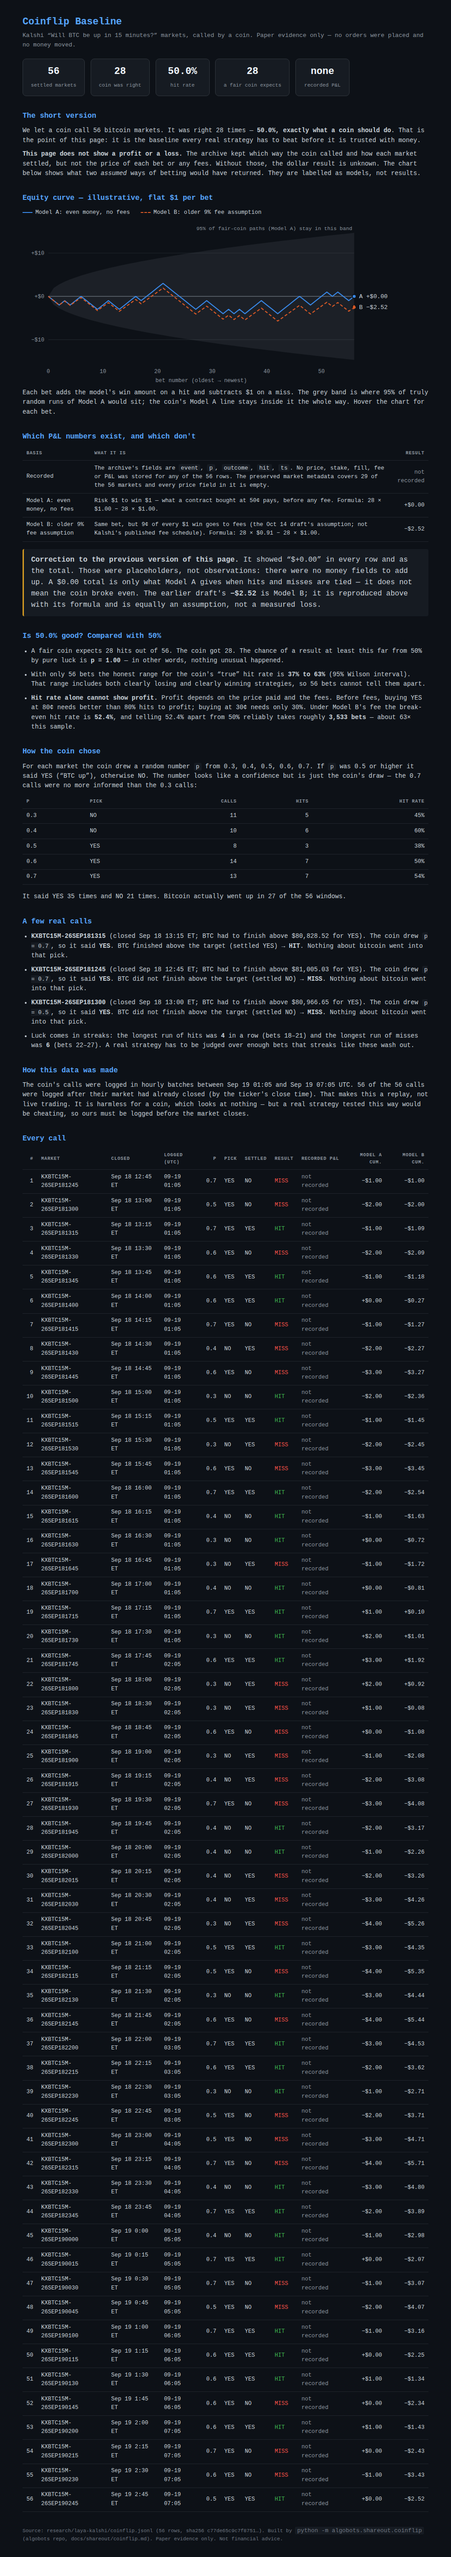
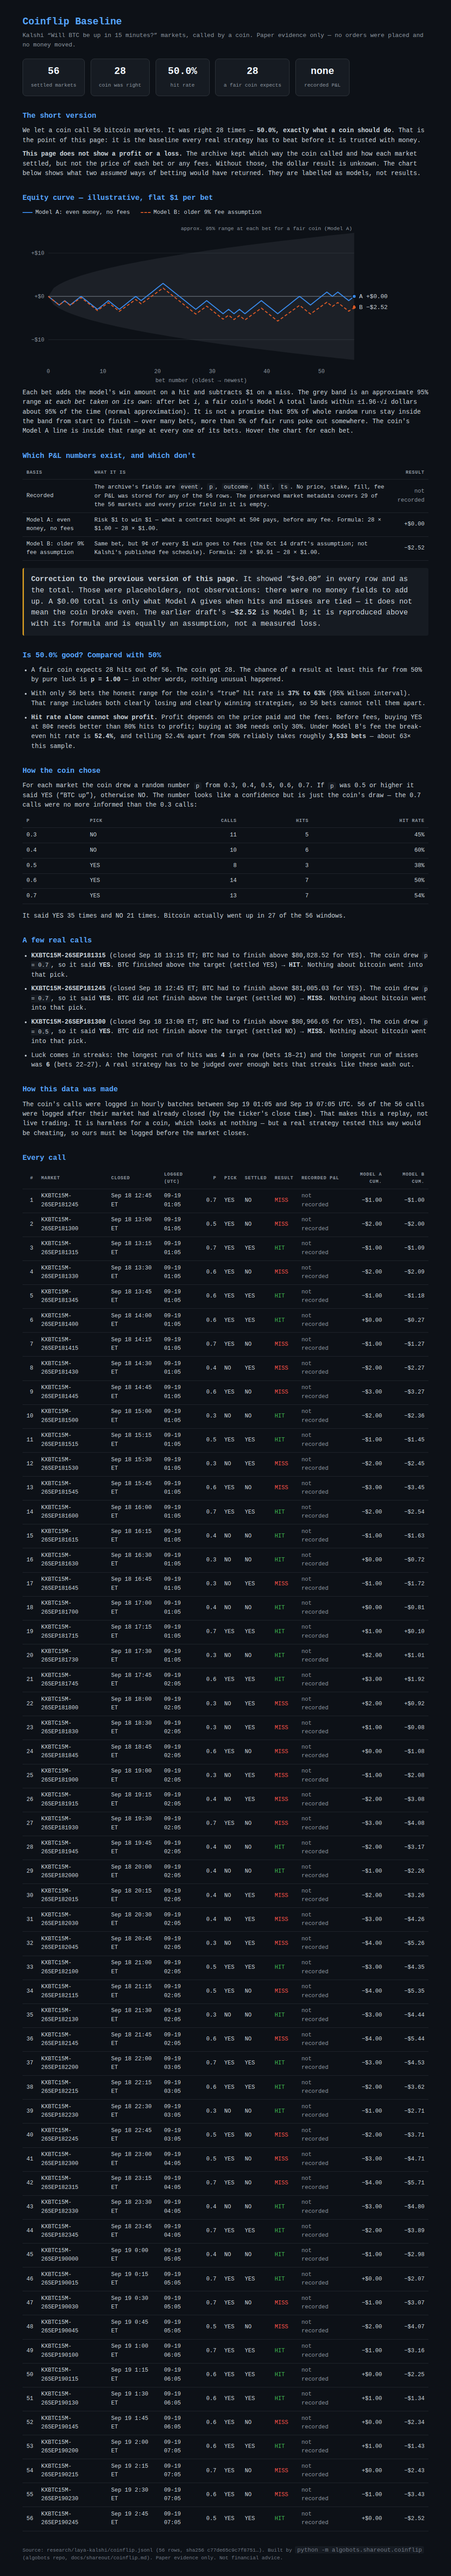
fix(ALG-3381): call the fair-coin band approximate and pointwise, not a path guarantee
CEO review: ±1.96·√i holds about 95% at each bet taken on its own (normal
approximation). It does not mean 95% of whole fair-coin paths stay inside
throughout. The SVG label, the caption and the docs now say so, and a test
locks the wording in. Served coinflip.html is now 027f607a…5208; index.html is
unchanged at ca372a0e…335db. Browser evidence has been re-captured.

diff --git a/src/algobots/shareout/coinflip.py b/src/algobots/shareout/coinflip.py
@@ -208,7 +208,7 @@ def money(x: float) -> str:
 
 
 def equity_svg(rows: list[Row]) -> str:
-    """Two illustrative equity lines with a fair-coin 95% band for Model A."""
+    """Two illustrative equity lines with an approximate pointwise 95% fair-coin band for Model A."""
     curves = {m.key: [0.0] + equity(rows, m) for m in MODELS}
     n = len(rows)
     band = [1.96 * math.sqrt(i) for i in range(n + 1)]
@@ -259,7 +259,7 @@ def equity_svg(rows: list[Row]) -> str:
     out.append(f'<path class="band" d="M{x(0):.1f},{y(0):.1f} {upper} {lower} Z"/>')
     out.append(
         f'<text class="bandlbl" x="{x(n) - 4:.1f}" y="{y(band[-1]) - 6:.1f}" '
-        'text-anchor="end">95% of fair-coin paths (Model A) stay in this band</text>'
+        'text-anchor="end">approx. 95% range at each bet for a fair coin (Model A)</text>'
     )
     for m, cls in ((EVEN_MONEY, "s1"), (FEE_9PCT, "s2")):
         c = curves[m.key]
@@ -378,9 +378,9 @@ def render_report(rows: list[Row], markets: dict[str, dict], source_sha: str) ->
     e = html.escape
     inside = all(abs(v) <= 1.96 * math.sqrt(i) + 1e-9 for i, v in enumerate(eq["even"], 1))
     band_note = (
-        "the coin's Model A line stays inside it the whole way"
+        "The coin's Model A line is inside that range at every one of its bets"
         if inside
-        else "the coin's Model A line leaves it at least once"
+        else "The coin's Model A line is outside that range at one or more bets"
     )
     late = sum(1 for r in rows if (c := close_dt(r.event)) and r.logged > c)
     priced = sum(1 for r in rows if r.event in markets)
@@ -456,7 +456,10 @@ results.</p>
 <span><i class="sw s2"></i>{e(FEE_9PCT.label)}</span></div>
 {equity_svg(rows)}
 <p>Each bet adds the model's win amount on a hit and subtracts $1 on a miss. The grey
-band is where 95% of truly random runs of Model A would sit; {band_note}.
+band is an approximate 95% range <i>at each bet taken on its own</i>: after bet <i>i</i>, a
+fair coin's Model A total lands within ±1.96·√<i>i</i> dollars about 95% of the time (normal
+approximation). It is not a promise that 95% of whole random runs stay inside the band
+from start to finish — over many bets, more than 5% of fair runs poke out somewhere. {band_note}.
 Hover the chart for each bet.</p>
 
 <h2>Which P&amp;L numbers exist, and which don't</h2>

diff --git a/tests/shareout/test_coinflip.py b/tests/shareout/test_coinflip.py
@@ -50,6 +50,15 @@ def test_report_never_presents_a_recorded_dollar_figure(tmp_path):
     )
 
 
+def test_band_is_described_as_pointwise_not_a_path_guarantee(tmp_path):
+    # CEO review: ±1.96·√i is an approximate pointwise band, not a simultaneous one.
+    coinflip.build(DATA / "coinflip.jsonl", DATA / "coinflip_markets.json", tmp_path)
+    page = (tmp_path / "coinflip.html").read_text()
+    assert "approx. 95% range at each bet" in page
+    assert "It is not a promise that 95% of whole random runs stay inside" in page
+    assert not re.search(r"95% of (fair-coin paths|truly random runs)[^.]*(stay|sit)", page)
+
+
 def test_hit_flag_must_match_pick_rule(tmp_path):
     bad = _write(
         tmp_path,

diff --git a/docs/shareout/coinflip.md b/docs/shareout/coinflip.md
@@ -25,7 +25,9 @@ So the report:
   - Model A, even money with no fee: `+1` per hit, `−1` per miss. 28 − 28 = **$0.00**.
   - Model B, the Oct 14 draft's 9% fee assumption: `+0.91` per hit, `−1` per miss.
     28 × 0.91 − 28 = **−$2.52**. This is not Kalshi's published fee schedule.
-- shows the 95% fair-coin band `±1.96·√i` for Model A after bet *i*.
+- shows an approximate *pointwise* 95% fair-coin band `±1.96·√i` for Model A after
+  bet *i* (normal approximation, each bet taken on its own). It is not a simultaneous
+  band: it does not claim 95% of whole fair-coin paths stay inside it throughout.
 - compares against 50% using an exact two-sided binomial p-value and a Wilson 95%
   interval. It also gives the bet count needed to tell Model B's 52.4% break-even
   from 50% (5% two-sided, 80% power).
